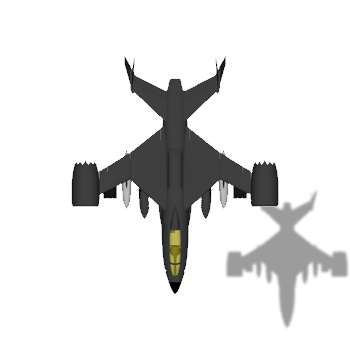
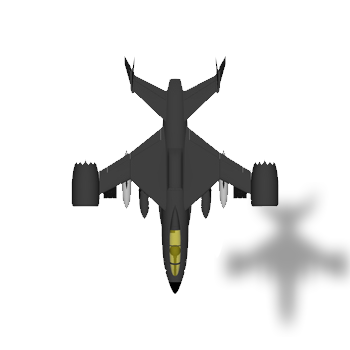
Mejora en las sombras de imagenes

Changed region(s): [[0.6286, 0.5429, 1.0, 0.9429]]

diff --git a/tp2-codigo-fuente/tp2/control/ControladorJuegoAlgo42.java b/tp2-codigo-fuente/tp2/control/ControladorJuegoAlgo42.java
@@ -84,7 +84,10 @@ public class ControladorJuegoAlgo42 extends ControladorJuego {
 			this.removerVista(objetoMuerto);
 		}
 		
-		this.mision.simularDurante(this.getIntervaloSimulacion() / 1000.0);
+		//////////////////////////////////////////////////////////////////
+		//////////////////////////////////////////////////////////////////
+		this.mision.simularDurante(this.getIntervaloSimulacion() / 500.0);
+		//////////////////////////////////////////////////////////////////
 	}
 
 	private void construirVistasDeFondo() {

diff --git a/tp2-codigo-fuente/tp2/modelo/ParserDeNaves.java b/tp2-codigo-fuente/tp2/modelo/ParserDeNaves.java
@@ -7,7 +7,7 @@ import tp2.auxiliares.ParCadenaPosicion;
 
 public class ParserDeNaves {
 
-	public static Collection<Nave> fabricarNave(ParCadenaPosicion datoDeLaNave,
+	public static Nave fabricarNave(ParCadenaPosicion datoDeLaNave,
 			FabricaDeNaves fabrica, Flota flotaMilitar) {
 		Collection<Nave> naves = new ArrayList<Nave>();
 		
@@ -15,7 +15,7 @@ public class ParserDeNaves {
 		flotaMilitar.agregarNave(nave);
 		naves.add(nave);
 		
-		return naves;
+		return nave;
 	}
 
 }

diff --git a/tp2-codigo-fuente/tp2/modelo/Mision.java b/tp2-codigo-fuente/tp2/modelo/Mision.java
@@ -87,6 +87,7 @@ public class Mision implements IGuardable {
 			double tiempo = this.tiemposDeSpawn.poll();
 			naveDelJugador.iniciarFuego();
 			for(ParCadenaPosicion datoDeLaNave: navesPorTiempoDeSpawn.get(tiempo)){
+				
 				Nave nave = ParserDeNaves.fabricarNave(datoDeLaNave, fabricaEnemiga, flotaEnemiga);
 				this.escenario.agregarObjeto(nave);
 			}

diff --git a/tp2-codigo-fuente/tp2/modelo/menues/menuNuevaPartida/MenuNuevaPartida.java b/tp2-codigo-fuente/tp2/modelo/menues/menuNuevaPartida/MenuNuevaPartida.java
@@ -15,7 +15,6 @@ import tp2.modelo.Mision;
 import tp2.modelo.menues.Menu;
 import tp2.modelo.menues.MenuI;
 import tp2.vista.menues.menuNuevaPartida.VistaMenuNuevaPartida;
-import tp2.vista.modelo.mision.VistaBarraDeEstado;
 import tp2.vista.ventanas.VentanaPrincipal;
 
 
